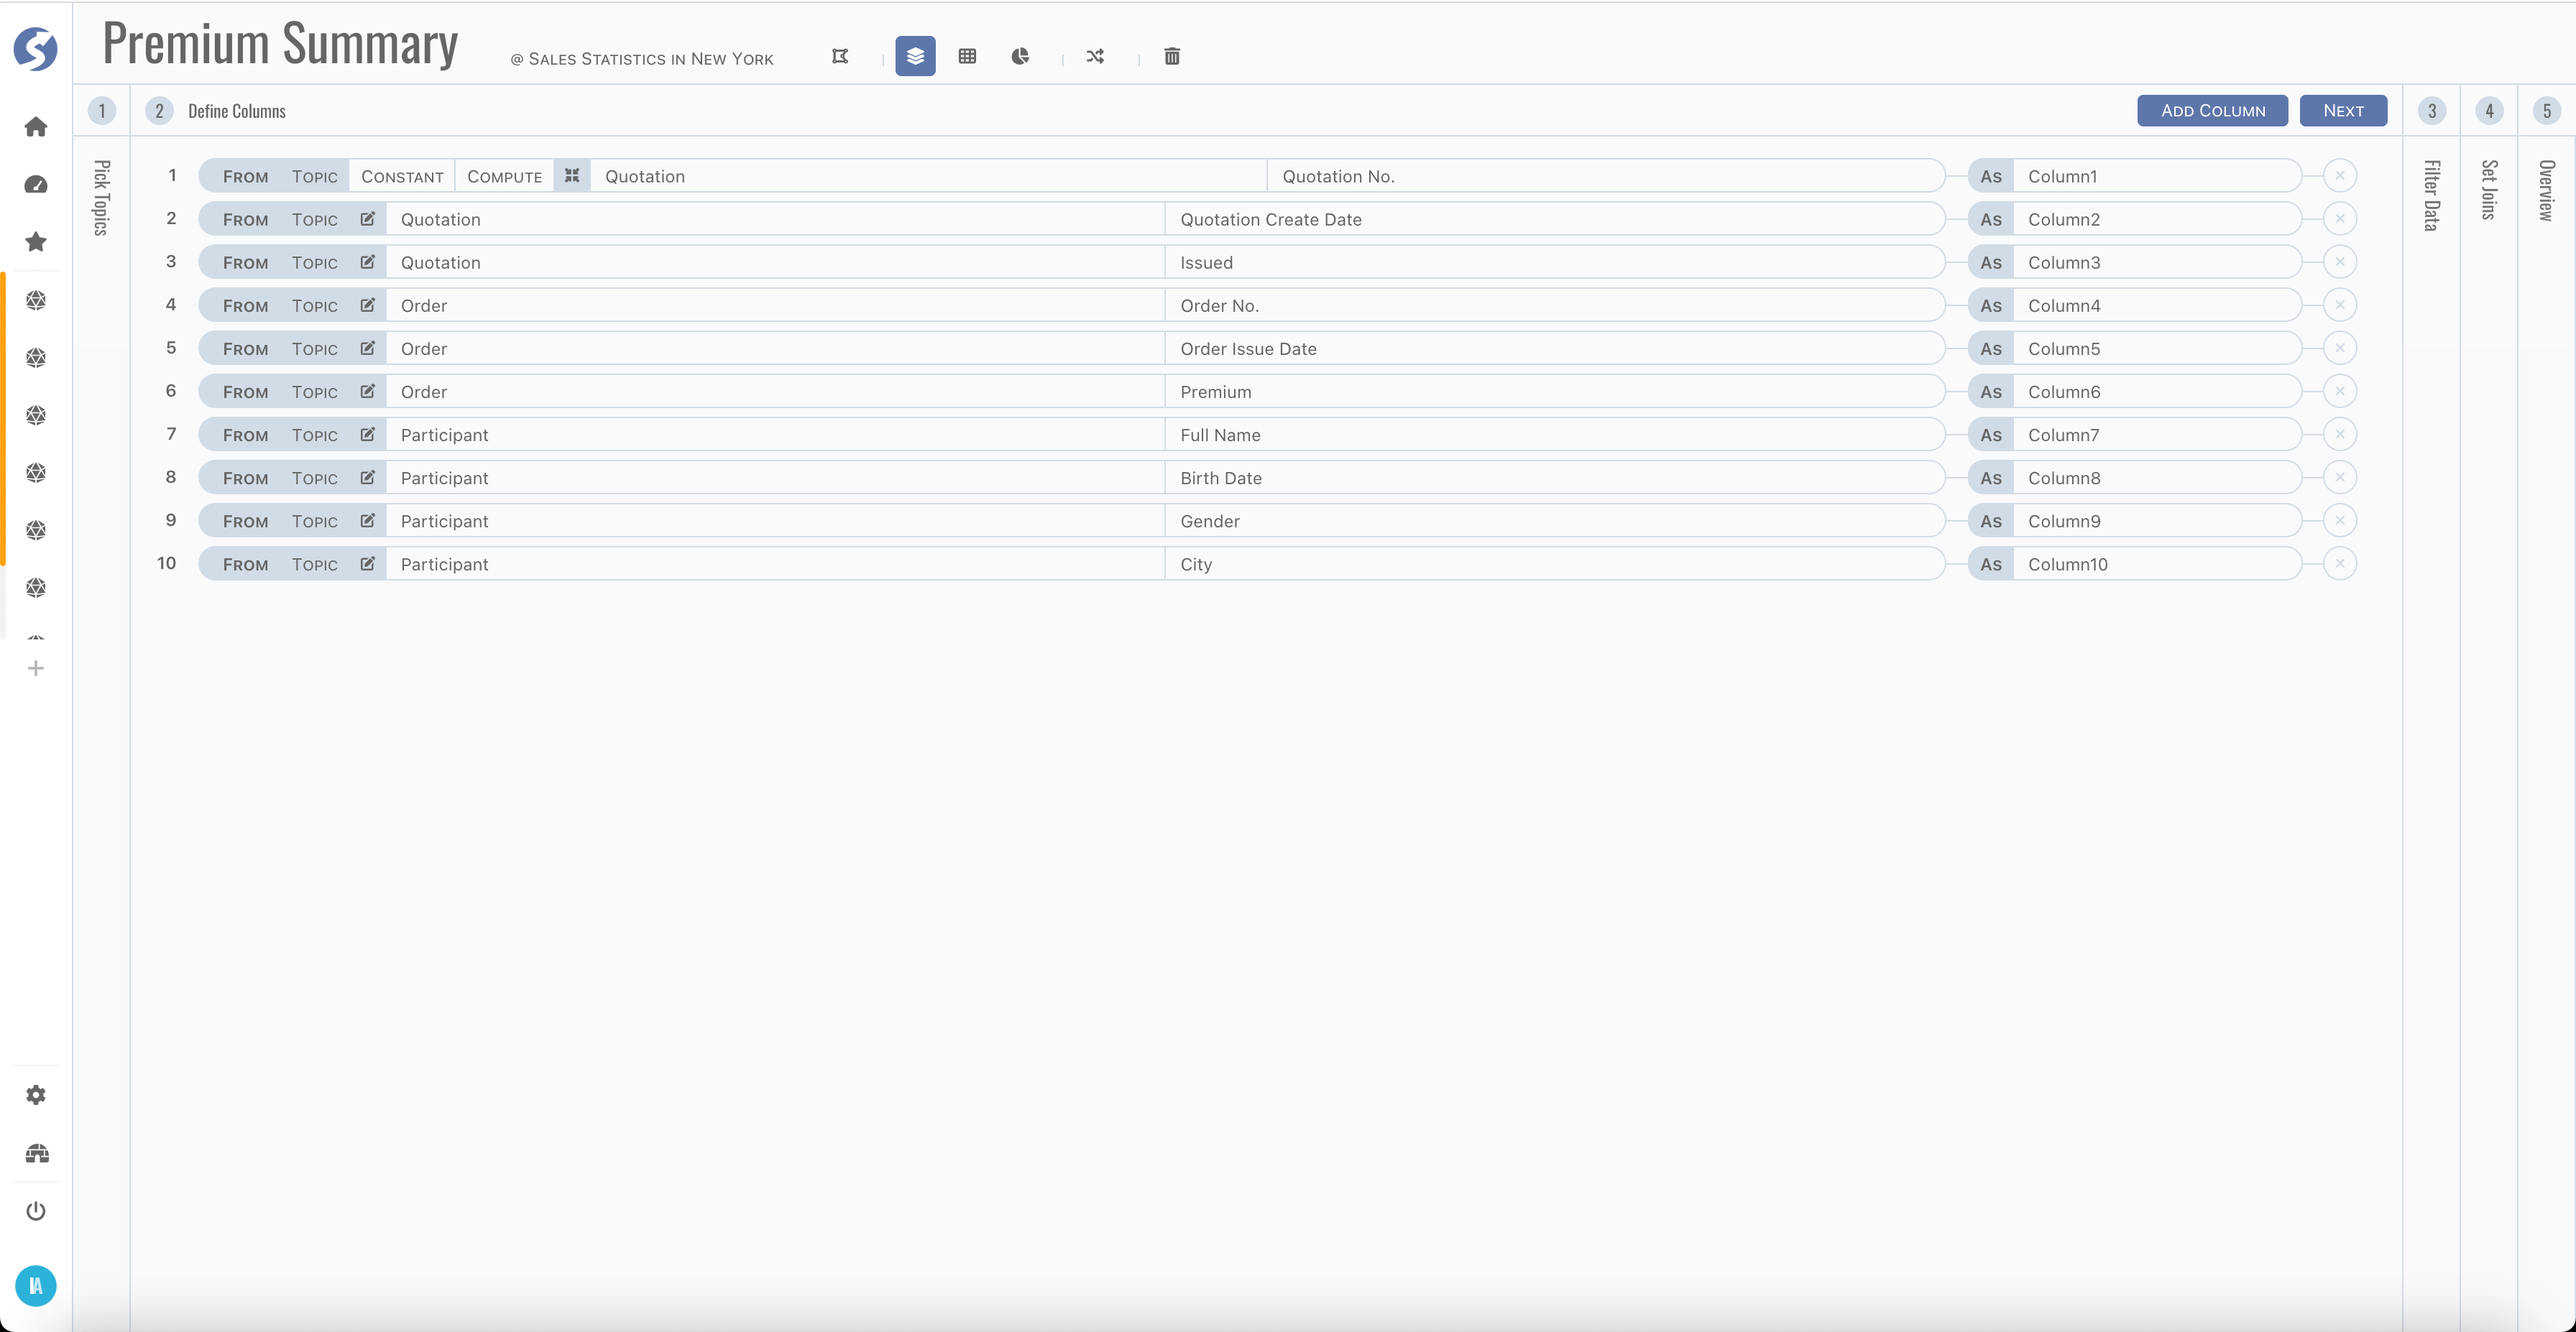
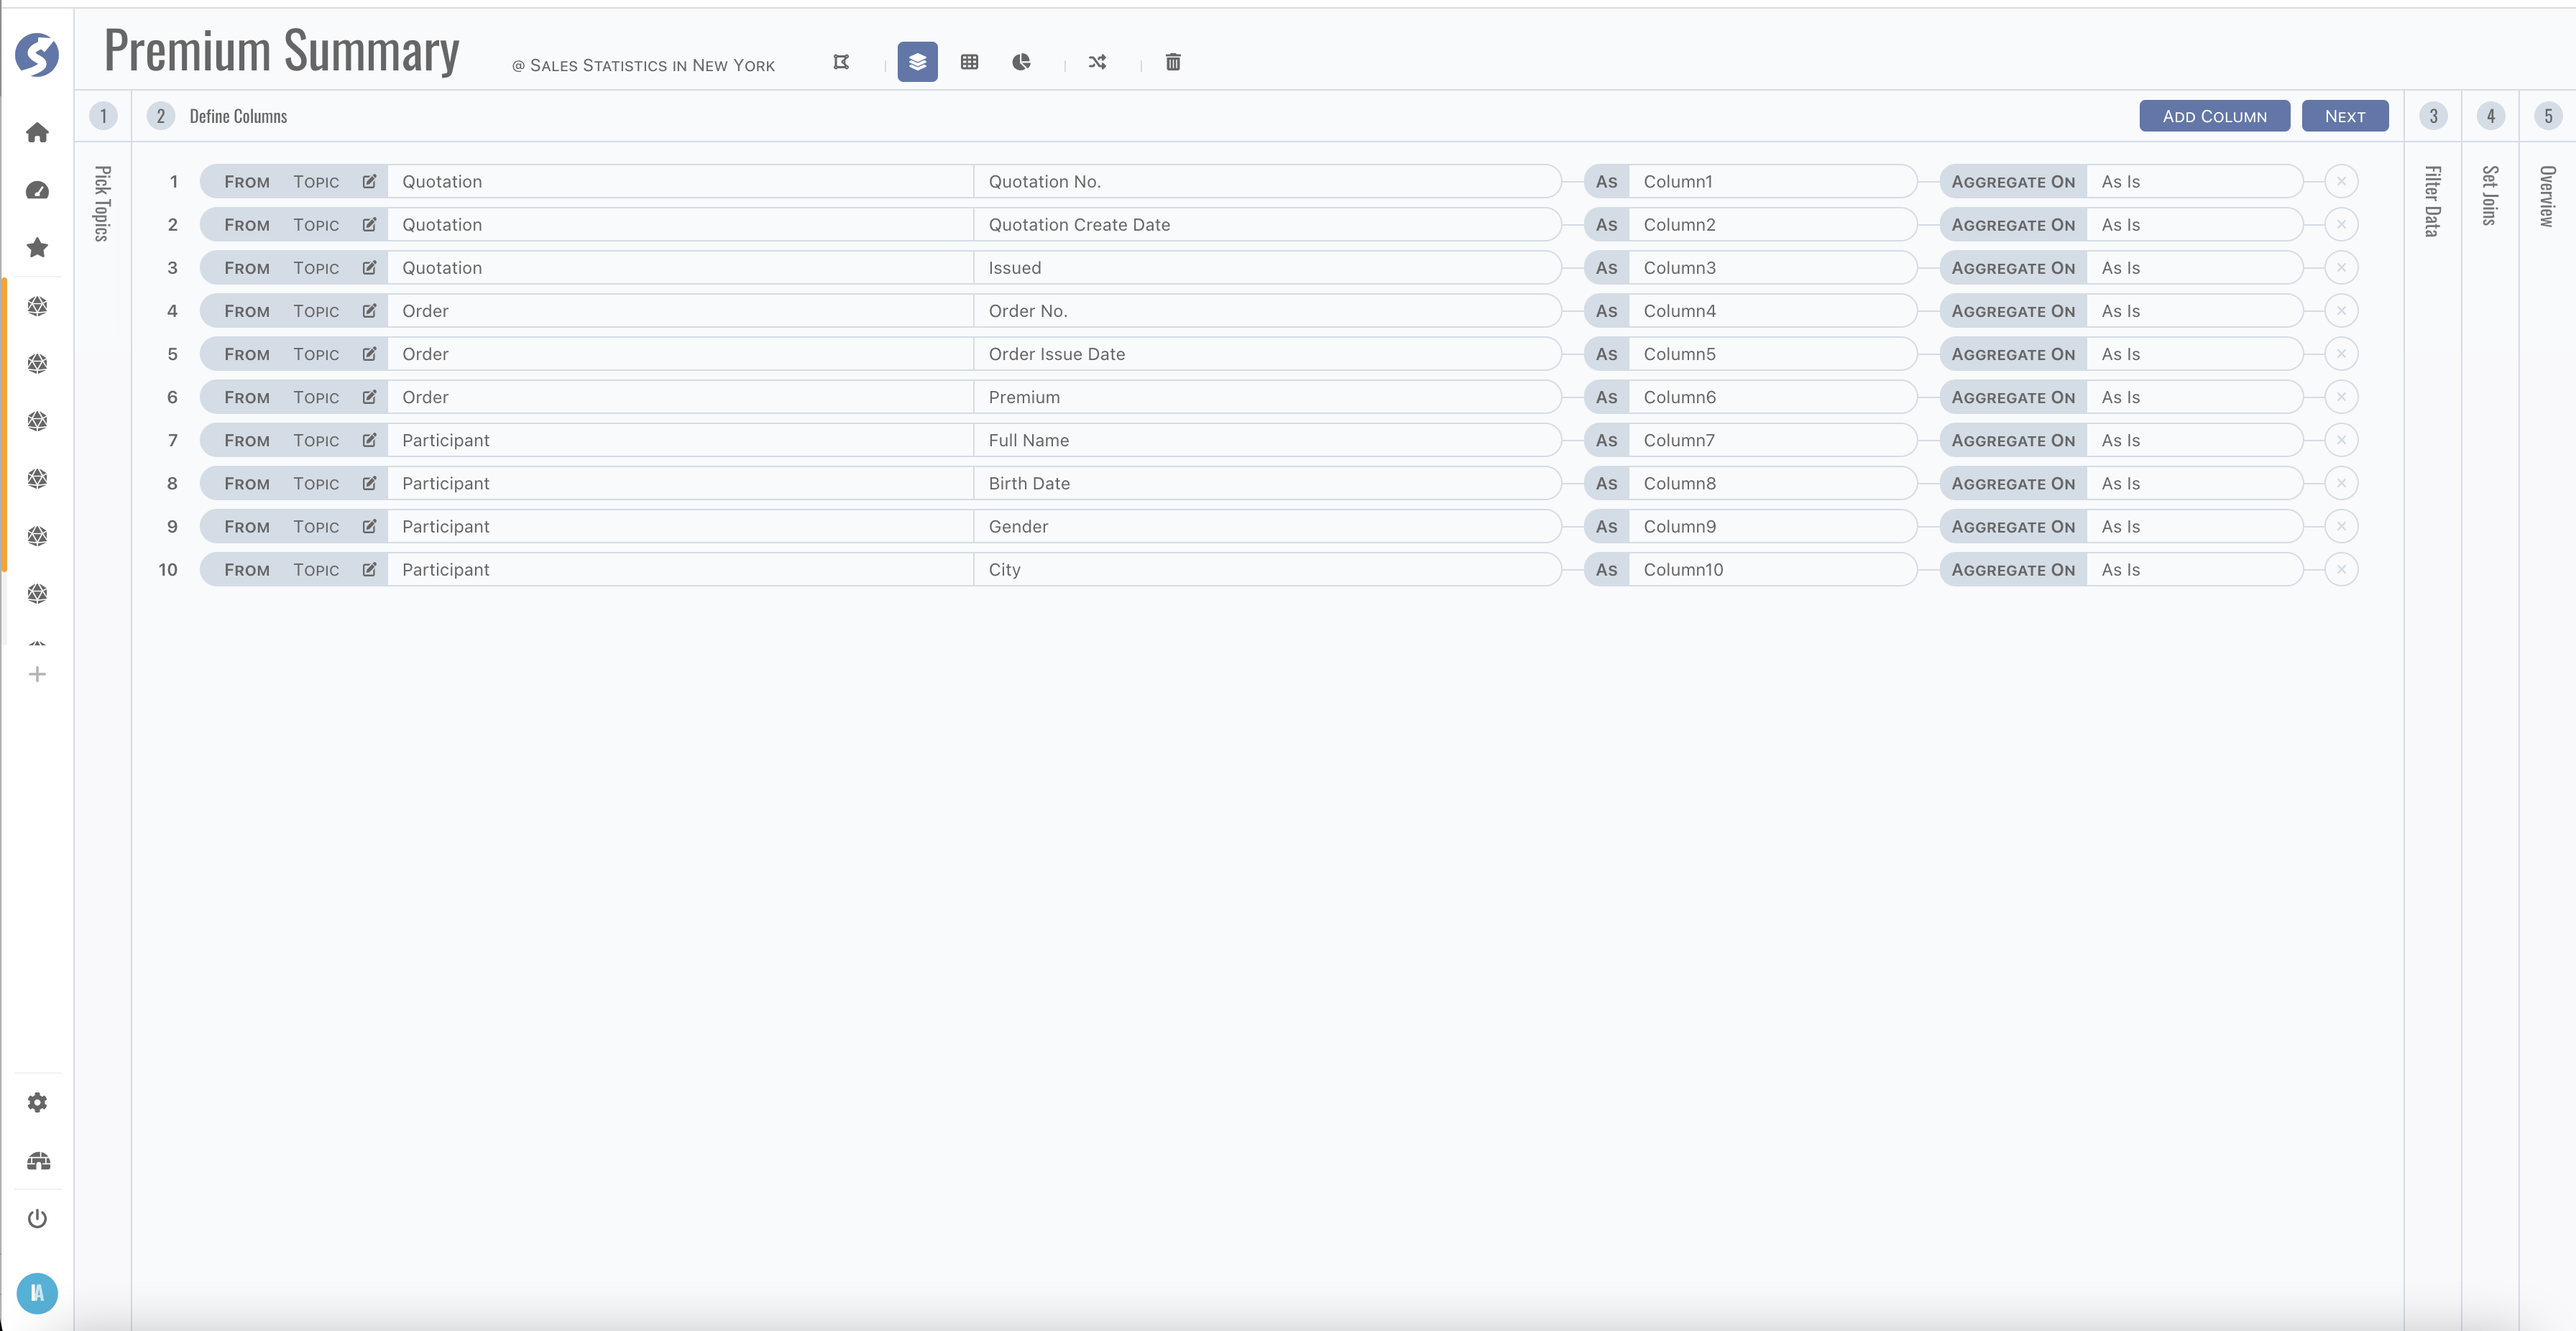
initialize

diff --git a/docs/020-web-client/020-console/030-subject.md b/docs/020-web-client/020-console/030-subject.md
@@ -20,9 +20,17 @@ Firstly, define structure of subject. Topics included in connected-space are ava
 
   ![Define Columns](images/subject-define-columns.png)
 
-  Column can be from a topic directly, or a constant value, or computed by functions. There are several functions are supported here,
+  Column can be from,
+    - a topic directly,
+    - or a constant value,
+    - or computed by functions.
+
+  There are several functions are supported for computation,
 
   ![Compute Functions](images/subject-column-computed.png)
+  
+  Column also can be aggregated by one of `count`, `sum`, `avg`, `max` and `min`. If any column is configured as aggregation, dataset
+  should be grouped by other non-aggregation columns.
 
   :::tip  
   Give a friendly name to each column.
@@ -45,9 +53,9 @@ Firstly, define structure of subject. Topics included in connected-space are ava
   :::
 
   Depending on type of join, data searched out contains
-	- Intersection of both sides when it is `Exactly Match`,
-	- Left side and right side in intersection when `Left Side Prioritized`,
-	- Right side and left side in intersection when `Right Side Prioritized`.
+    - Intersection of both sides when it is `Exactly Match`,
+    - Left side and right side in intersection when `Left Side Prioritized`,
+    - Right side and left side in intersection when `Right Side Prioritized`.
 
 - Finally, view definition dsl,
 
